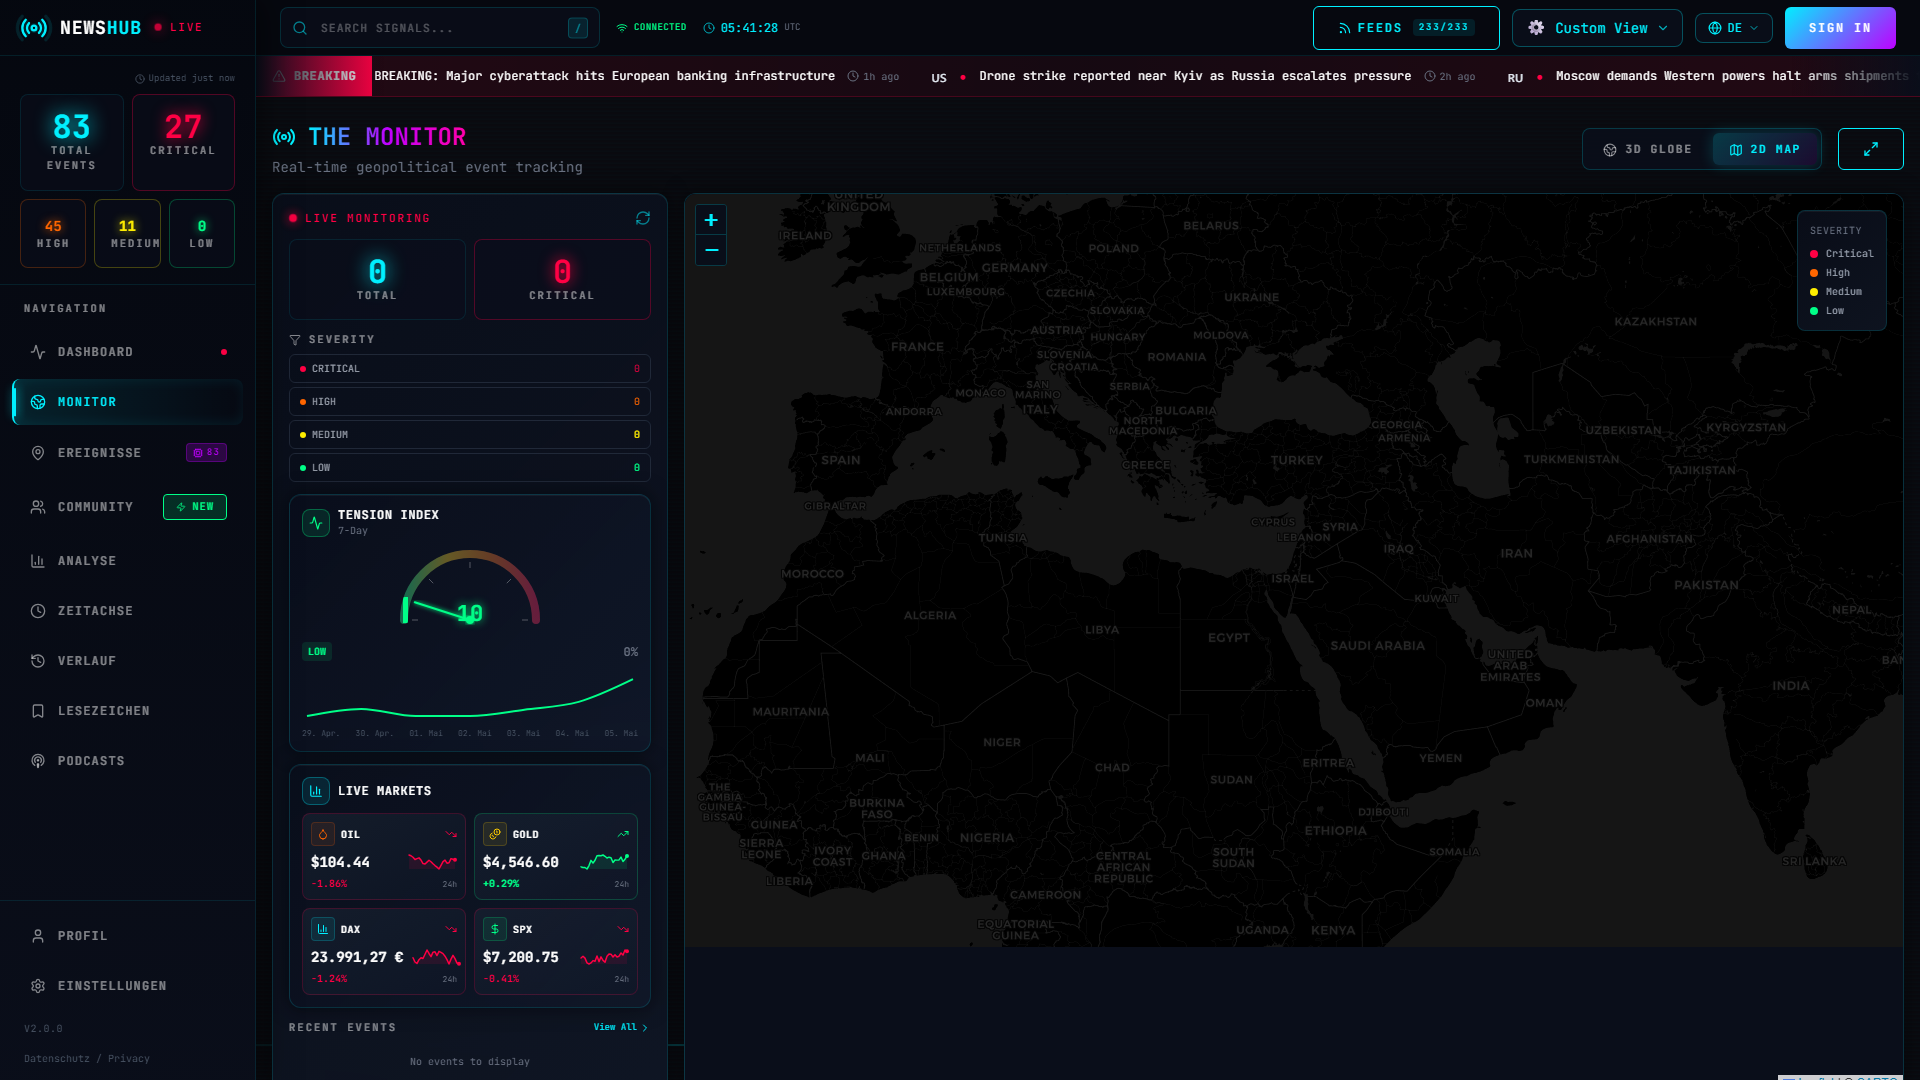
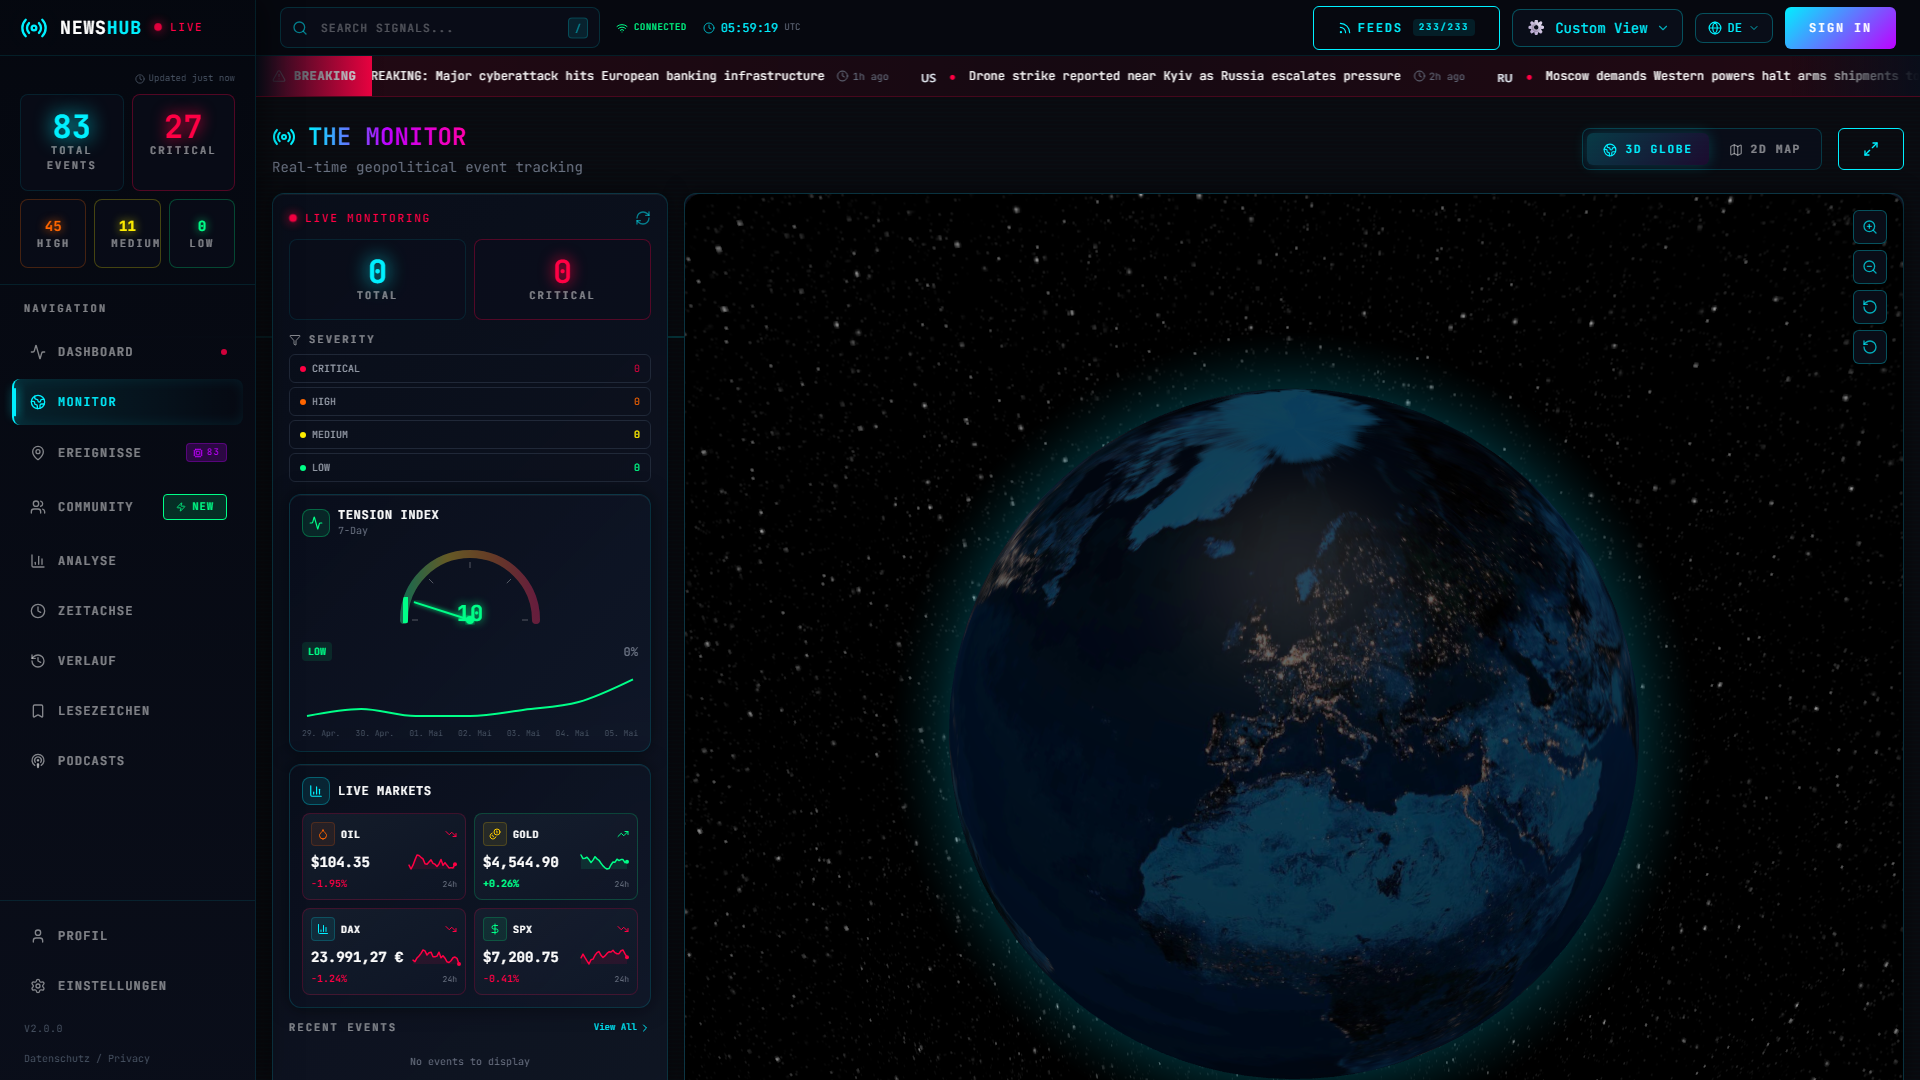
docs(screenshots): fix globe-monitor view, swap feed-manager → podcasts, add shortcuts cheat-sheet
User feedback on the previous capture:
1. Globe-monitor showed 2D map instead of 3D globe (default view is 'map')
2. Event-list shot showed 2D map instead of an event list
3. Keyboard shortcuts shot didn't open the cheat sheet (wrong key combo)
4. Feed-manager shot was less compelling than what /podcasts could show

Fixes:
- monitor-globe: spec now clicks the "3D Globe" toggle button before
  capturing — produces the dark Earth from space with city lights.
- monitor-events: dropped. The Recent Events panel on /monitor sits
  below tall stats panels in the left sidebar, and the /events
  EventMap chunk has a flaky ChunkLoadError in dev. Coverage of the
  event list is preserved by timeline.png (chronological list view)
  and monitor-globe.png (events as 3D markers).
- shortcuts: spec now dispatches a synthetic Shift+? KeyboardEvent
  via page.evaluate() — Playwright's keyboard.press('Shift+/') didn't
  produce event.key='?' which the handler in useKeyboardShortcuts.ts
  requires. Modal now displays Navigation/Actions/Feed Manager groups.
- podcasts.png: new capture replaces feed-manager.png. Shows curated
  podcast list (left) + selected feed's episodes (right) with
  transcript-search hint.

README screenshot grid restructured: 3 rows of 2 + 1 full-width
shortcuts row, total 7 shots.

CAPTURE-GUIDE.md updated with the new shot list.

diff --git a/apps/web/e2e/screenshots.spec.ts b/apps/web/e2e/screenshots.spec.ts
@@ -66,17 +66,12 @@ test.describe('README Screenshots', () => {
   test('capture monitor globe', async ({ page }) => {
     await page.goto('/monitor');
     await page.waitForLoadState('domcontentloaded');
-    // Globe canvas takes time to initialize WebGL
-    await page.waitForTimeout(8000);
+    // Default view is 2D Map — click the "3D Globe" button before capturing
+    const globeBtn = page.locator('button', { hasText: /^\s*3D\s*Globe\s*$/i }).first();
+    await globeBtn.click({ timeout: 15000 });
+    // WebGL canvas needs time to initialize + globe markers to drop in
+    await page.waitForTimeout(10000);
     await page.screenshot({ path: `${SCREENSHOT_DIR}/monitor-globe.png`, fullPage: false });
-  });
-
-  test('capture monitor events', async ({ page }) => {
-    await page.goto('/monitor');
-    await page.waitForLoadState('domcontentloaded');
-    // Try to switch to 2D map view if a button exists, then wait for events list
-    await page.waitForTimeout(6000);
-    await page.screenshot({ path: `${SCREENSHOT_DIR}/monitor-events.png`, fullPage: false });
   });
 
   test('capture analysis', async ({ page }) => {
@@ -101,18 +96,12 @@ test.describe('README Screenshots', () => {
     await page.screenshot({ path: `${SCREENSHOT_DIR}/community.png`, fullPage: false });
   });
 
-  test('capture feed manager', async ({ page }) => {
-    await page.goto('/');
+  test('capture podcasts', async ({ page }) => {
+    // /podcasts shows the curated podcast feed list (from config) + selected feed's episodes
+    await page.goto('/podcasts');
     await page.waitForLoadState('domcontentloaded');
-    await expect(page.locator('article, [class*="ArticleCard"]').first()).toBeVisible({ timeout: 30000 });
-    await page.waitForTimeout(1500);
-    // Open feed manager modal (gear icon)
-    const feedManagerButton = page.locator('button[aria-label*="Feed"], button:has-text("Feed"), button:has([class*="Settings"]), button:has([class*="Sliders"])').first();
-    if (await feedManagerButton.isVisible({ timeout: 5000 }).catch(() => false)) {
-      await feedManagerButton.click();
-      await page.waitForTimeout(1000);
-    }
-    await page.screenshot({ path: `${SCREENSHOT_DIR}/feed-manager.png`, fullPage: false });
+    await page.waitForTimeout(6000);
+    await page.screenshot({ path: `${SCREENSHOT_DIR}/podcasts.png`, fullPage: false });
   });
 
   test('capture keyboard shortcuts', async ({ page }) => {
@@ -120,8 +109,14 @@ test.describe('README Screenshots', () => {
     await page.waitForLoadState('domcontentloaded');
     await expect(page.locator('article, [class*="ArticleCard"]').first()).toBeVisible({ timeout: 30000 });
     await page.waitForTimeout(1500);
-    await page.keyboard.press('?');
-    await page.waitForTimeout(800);
+    // Click body to ensure focus, then dispatch a synthetic Shift+? keydown.
+    // Playwright's keyboard.press('Shift+/') doesn't always set event.key='?', which the
+    // app's handler requires (case '?' && event.shiftKey).
+    await page.locator('body').click({ position: { x: 10, y: 10 } });
+    await page.evaluate(() => {
+      document.dispatchEvent(new KeyboardEvent('keydown', { key: '?', shiftKey: true, bubbles: true }));
+    });
+    await page.waitForTimeout(1000);
     await page.screenshot({ path: `${SCREENSHOT_DIR}/shortcuts.png`, fullPage: false });
   });
 });

diff --git a/README.md b/README.md
@@ -74,32 +74,28 @@ The codebase ships with subscription tiers (Stripe), team collaboration, threade
 </tr>
 <tr>
 <td width="50%" align="center">
-<img src="docs/screenshots/monitor-events.png" alt="Geo events panel" />
-<br/><sub><b>Event List</b> — severity (critical / high / medium / low) and category (conflict / humanitarian / political / economic / military / protest / diplomacy / other)</sub>
-</td>
-<td width="50%" align="center">
 <img src="docs/screenshots/analysis.png" alt="Perspective analysis" />
 <br/><sub><b>Analysis</b> — topic clusters with regional perspective distribution; AI-summarized when <code>?summaries=true</code></sub>
 </td>
-</tr>
-<tr>
 <td width="50%" align="center">
 <img src="docs/screenshots/timeline.png" alt="Historical timeline" />
-<br/><sub><b>Timeline</b> — historical event timeline filterable by category and severity</sub>
+<br/><sub><b>Timeline</b> — chronological event list, severity (critical / high / medium / low) and category (conflict / humanitarian / political / economic / military / protest / diplomacy / other)</sub>
 </td>
+</tr>
+<tr>
 <td width="50%" align="center">
 <img src="docs/screenshots/community.png" alt="Community / Teams" />
 <br/><sub><b>Community</b> — gamification (badges bronze → platinum), leaderboard snapshots, team workspaces</sub>
 </td>
+<td width="50%" align="center">
+<img src="docs/screenshots/podcasts.png" alt="Podcasts directory" />
+<br/><sub><b>Podcasts</b> — curated feed list + episode browser with transcript drawer (Phase 40); two-tier search (titles for FREE, transcript-excerpts for PREMIUM)</sub>
+</td>
 </tr>
 <tr>
-<td width="50%" align="center">
-<img src="docs/screenshots/feed-manager.png" alt="Feed manager" />
-<br/><sub><b>Feed Manager</b> — toggle regions, sources, and topic filters; persisted in Zustand <code>newshub-storage</code></sub>
-</td>
-<td width="50%" align="center">
-<img src="docs/screenshots/shortcuts.png" alt="Keyboard shortcuts" />
-<br/><sub><b>Keyboard Shortcuts</b> — press <kbd>?</kbd> anywhere to bring up the cheat sheet</sub>
+<td colspan="2" align="center">
+<img src="docs/screenshots/shortcuts.png" alt="Keyboard shortcuts" width="50%" />
+<br/><sub><b>Keyboard Shortcuts</b> — press <kbd>Shift</kbd>+<kbd>?</kbd> anywhere to bring up the cheat sheet</sub>
 </td>
 </tr>
 </table>

diff --git a/docs/screenshots/CAPTURE-GUIDE.md b/docs/screenshots/CAPTURE-GUIDE.md
@@ -7,13 +7,12 @@ Capture README screenshots at **1920x1080** with real seeded news data.
 | Filename | Page | What to capture |
 |----------|------|-----------------|
 | `dashboard.png` | `/` | Signal feed with article cards, region distribution bar |
-| `monitor-globe.png` | `/monitor` | 3D globe / 2D map with severity panel |
-| `monitor-events.png` | `/monitor` | Map view with event categories |
+| `monitor-globe.png` | `/monitor` (3D Globe view) | Click "3D Globe" toggle, then capture — dark Earth from space with city lights |
 | `analysis.png` | `/analysis` | Perspektiven-Analyse: clusters + framing + sentiment chart |
-| `timeline.png` | `/timeline` | Event timeline grouped by date |
-| `community.png` | `/community` | XP/contribution UI |
-| `feed-manager.png` | Any | Feed manager dropdown / region filter open |
-| `shortcuts.png` | Any | Keyboard shortcuts modal (`?`) |
+| `timeline.png` | `/timeline` | Event timeline grouped by date (acts as the canonical event-list shot) |
+| `community.png` | `/community` | XP / contribution UI |
+| `podcasts.png` | `/podcasts` | Curated feed list (left) + selected feed's episodes (right) |
+| `shortcuts.png` | Any | Keyboard shortcuts modal — opened via Shift+? (synthesized via `dispatchEvent`) |
 
 ## One-shot capture (recommended)
 
